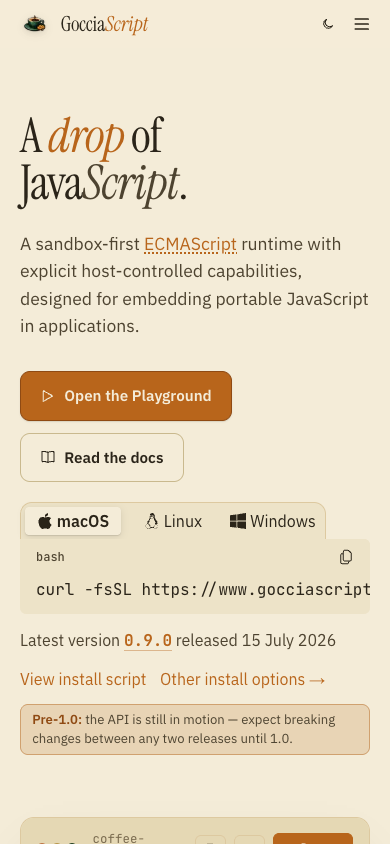
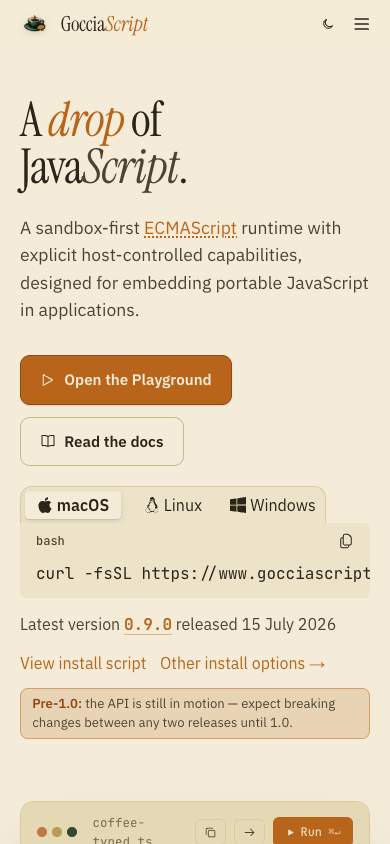
refactor(website): simplify landing components

diff --git a/website/src/app/globals.css b/website/src/app/globals.css
@@ -1646,14 +1646,13 @@ a.info-term {
   gap: 1rem;
   grid-template-columns: repeat(auto-fit, minmax(260px, 1fr));
 }
-.feature {
-  padding: 1.5rem;
-  background: var(--paper-2);
-  border: 1px solid var(--rule-soft);
-  border-radius: 14px;
-  position: relative;
+.paper-card {
+  --color-border-emphasized: var(--rule-soft);
 }
-.feature .ficon {
+.feature-card {
+  --radius-container: 14px;
+}
+.feature-card .ficon {
   width: 38px;
   height: 38px;
   display: grid;
@@ -1661,43 +1660,21 @@ a.info-term {
   border-radius: 10px;
   background: var(--paper-3);
   border: 1px solid var(--rule-soft);
-  margin-bottom: 1rem;
   color: var(--accent);
-}
-.feature h4 {
-  margin-bottom: 0.4rem;
-  color: var(--ink);
-}
-.feature p {
-  color: var(--ink-2);
-  font-size: 0.95rem;
-  margin: 0;
 }
 
-.faq-grid {
-  display: grid;
-  grid-template-columns: repeat(auto-fit, minmax(280px, 1fr));
-  gap: 0.85rem;
+.faq-list {
+  --radius-container: 8px;
 }
-.faq-item {
-  border: 1px solid var(--rule-soft);
-  border-radius: 8px;
-  background: var(--paper-2);
-  padding: 1rem 1.1rem;
+.faq-list .astryx-collapsible + .astryx-collapsible {
+  border-top: 1px solid var(--rule-soft);
 }
-.faq-item summary {
-  cursor: pointer;
-  color: var(--ink);
-  font-weight: 700;
-  list-style-position: outside;
+.faq-list .astryx-collapsible > button {
+  min-height: 3.25rem;
+  padding: 0.85rem 1rem;
 }
-.faq-item summary::marker {
-  color: var(--accent);
-}
-.faq-item p {
-  margin: 0.75rem 0 0;
-  color: var(--ink-2);
-  font-size: 0.95rem;
+.faq-list .astryx-collapsible > button + div {
+  padding: 0 1rem 1rem;
 }
 
 /* decorative drop */
@@ -2735,43 +2712,6 @@ a.info-term {
   user-select: none;
 }
 
-/* Code block with a left-side line-number gutter. Used by the
-   Compiler Pipeline panels, EXCLUDED snippets, and any other static
-   code on the landing page so all rendered samples have one look. */
-.numbered-code {
-  display: flex;
-  background: var(--paper);
-  border: 1px solid var(--rule-soft);
-  border-radius: 8px;
-  overflow: hidden;
-}
-.numbered-code-gutter {
-  margin: 0;
-  padding: 0.85rem 0.5rem 0.85rem 0.7rem;
-  background: color-mix(in oklab, var(--paper-2) 70%, var(--paper-3));
-  border-right: 1px solid var(--rule-soft);
-  color: var(--ink-3);
-  font-family: var(--mono);
-  font-size: 0.82rem;
-  line-height: 1.5;
-  text-align: right;
-  user-select: none;
-  white-space: pre;
-  min-width: 2.5ch;
-}
-.numbered-code-body {
-  margin: 0;
-  padding: 0.85rem 1rem;
-  flex: 1;
-  min-width: 0;
-  overflow-x: auto;
-  font-family: var(--mono);
-  font-size: 0.82rem;
-  line-height: 1.5;
-}
-.numbered-code-body code {
-  white-space: pre;
-}
 .pg-log-line {
   padding: 0.12rem 0;
   border-bottom: 1px dashed transparent;

diff --git a/website/src/components/landing.tsx b/website/src/components/landing.tsx
@@ -1,5 +1,11 @@
 "use client";
 
+import { Card } from "@astryxdesign/core/Card";
+import { CodeBlock } from "@astryxdesign/core/CodeBlock";
+import { Collapsible, CollapsibleGroup } from "@astryxdesign/core/Collapsible";
+import { Heading } from "@astryxdesign/core/Heading";
+import { Text } from "@astryxdesign/core/Text";
+import { VStack } from "@astryxdesign/core/VStack";
 import Link from "next/link";
 import {
   Fragment,
@@ -13,10 +19,7 @@ import { AnchorH2, AnchorH3 } from "@/components/anchor-heading";
 import { AnimatedOutput } from "@/components/animated-output";
 import { useRunShortcut } from "@/components/command-tabs";
 import { ConsolePanel } from "@/components/console-panel";
-import {
-  HighlightedCode,
-  HighlightedGeneric,
-} from "@/components/highlighted-code";
+import { HighlightedCode } from "@/components/highlighted-code";
 import {
   ArrowIcon,
   BookIcon,
@@ -29,7 +32,6 @@ import {
   ShieldIcon,
 } from "@/components/icons";
 import { LatestVersion } from "@/components/latest-version";
-import { NumberedCode } from "@/components/numbered-code";
 import { QuickInstall } from "@/components/quick-install";
 import type { OutputLine } from "@/lib/examples";
 import { formatError } from "@/lib/format-error";
@@ -591,9 +593,15 @@ console.log("total:", total);`;
           {active === 0 && (
             <div className="arch-artifact-box">
               <div className="arch-artifact-head">example.js</div>
-              <NumberedCode lineCount={SOURCE.split("\n").length}>
-                <HighlightedCode code={SOURCE} />
-              </NumberedCode>
+              <CodeBlock
+                code={SOURCE}
+                language="javascript"
+                hasLanguageLabel={false}
+                hasLineNumbers
+                hasCopyButton={false}
+                size="sm"
+                width="100%"
+              />
             </div>
           )}
 
@@ -710,12 +718,16 @@ console.log("total:", total);`;
                   id={panelJsonId}
                   aria-labelledby={tabJsonId}
                 >
-                  <NumberedCode
+                  <CodeBlock
                     className="arch-detail-anim"
-                    lineCount={RESULT.split("\n").length}
-                  >
-                    <HighlightedGeneric code={RESULT} language="json" />
-                  </NumberedCode>
+                    code={RESULT}
+                    language="json"
+                    hasLanguageLabel={false}
+                    hasLineNumbers
+                    hasCopyButton={false}
+                    size="sm"
+                    width="100%"
+                  />
                 </div>
               )}
             </div>
@@ -998,13 +1010,23 @@ export function Landing({
             {FEATURES.map((f) => {
               const I = FEATURE_ICONS[f.icon];
               return (
-                <div key={f.title} className="feature">
-                  <div className="ficon">
-                    <I size={20} />
-                  </div>
-                  <h4>{f.title}</h4>
-                  <p>{f.body}</p>
-                </div>
+                <Card
+                  key={f.title}
+                  className="paper-card feature-card"
+                  padding={6}
+                >
+                  <VStack gap={4}>
+                    <div className="ficon">
+                      <I size={20} />
+                    </div>
+                    <VStack gap={1}>
+                      <Heading level={4}>{f.title}</Heading>
+                      <Text as="p" type="supporting" display="block">
+                        {f.body}
+                      </Text>
+                    </VStack>
+                  </VStack>
+                </Card>
               );
             })}
           </div>
@@ -1154,14 +1176,21 @@ export function Landing({
               embedding the runtime.
             </p>
           </div>
-          <div className="faq-grid">
-            {FAQ_ITEMS.map((item) => (
-              <details key={item.question} className="faq-item">
-                <summary>{item.question}</summary>
-                <p>{item.answer}</p>
-              </details>
-            ))}
-          </div>
+          <Card className="paper-card faq-list" padding={0}>
+            <CollapsibleGroup type="multiple" hasDividers density="balanced">
+              {FAQ_ITEMS.map((item) => (
+                <Collapsible
+                  key={item.question}
+                  trigger={item.question}
+                  value={item.question}
+                >
+                  <Text as="div" type="supporting" display="block">
+                    {item.answer}
+                  </Text>
+                </Collapsible>
+              ))}
+            </CollapsibleGroup>
+          </Card>
         </div>
       </section>
 